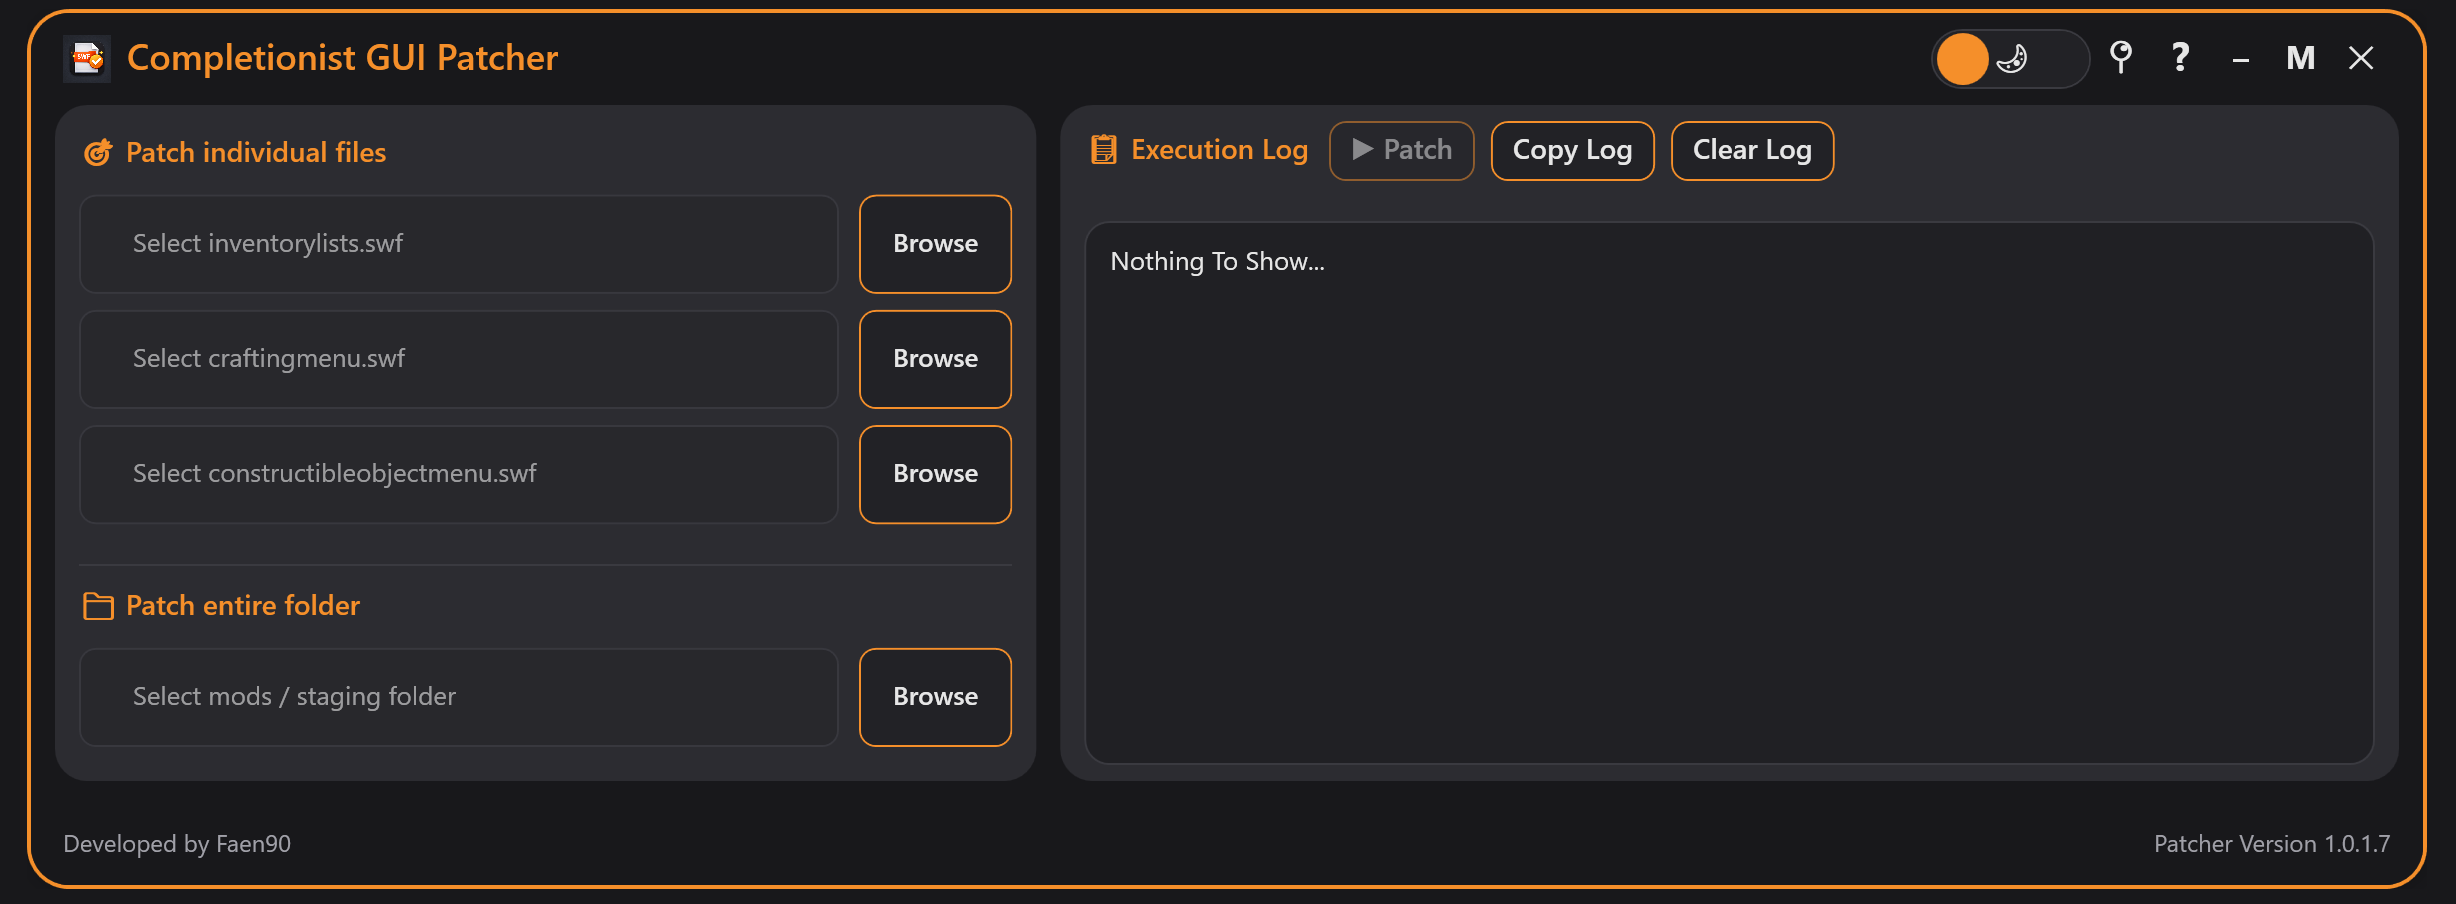
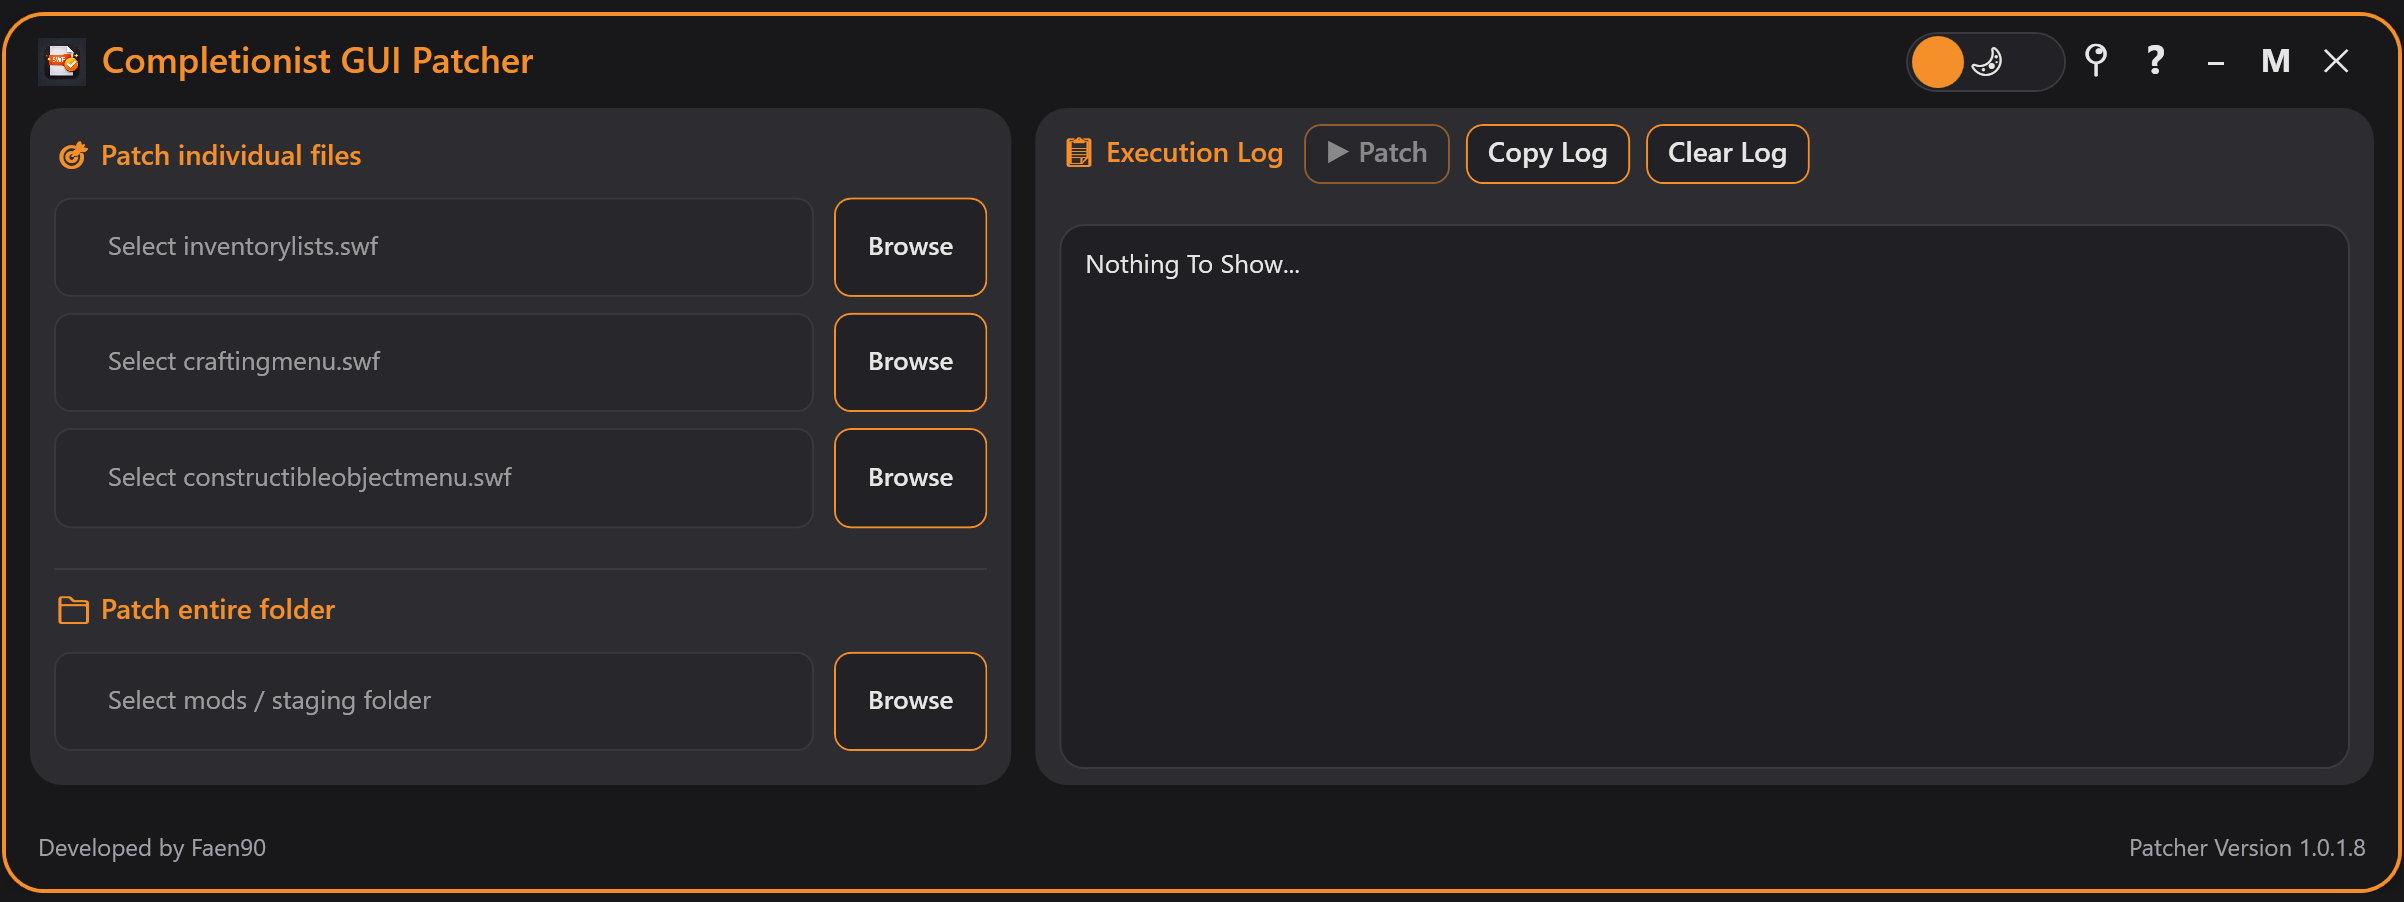
Add post-update cleanup and update workflow
Bump version to 1.0.1.8 and implement a safer update flow. Patcher.xaml.cs now invokes PerformPostUpdateCleanup on load and includes a method that removes obsolete files based on a preupdate_manifest.txt, skips the ffdec folder, and cleans temporary update artifacts. Utility/GithubUpdater.cs was reworked: ExtractAndUpdate is now async, extracts to an update_new folder, creates a pre-update manifest (CreatePreUpdateManifestAsync) excluding specified subfolders, generates an update.bat to apply the update, launches the updater via cmd, and shuts down the app. README and screenshot were updated to reflect the new version.

diff --git a/Utility/GithubUpdater.cs b/Utility/GithubUpdater.cs
@@ -119,23 +119,69 @@ namespace Completionist_GUI_Patcher.Utility
             }
         }
 
-        private static void ExtractAndUpdate(string zipPath)
+        private static async Task ExtractAndUpdate(string zipPath)
         {
-            string extractPath = Path.Combine(AppDomain.CurrentDomain.BaseDirectory, "update");
+            string baseDir = AppDomain.CurrentDomain.BaseDirectory;
+            string updateNewDir = Path.Combine(baseDir, "update_new");
+            string manifestPath = Path.Combine(baseDir, "preupdate_manifest.txt");
 
-            // Ensure no previous update is interfering
-            if (Directory.Exists(extractPath))
+            // Clean previous update attempt
+            if (Directory.Exists(updateNewDir))
+                Directory.Delete(updateNewDir, true);
+            if (File.Exists(manifestPath))
+                File.Delete(manifestPath);
+
+            // Extract new version to update_new
+            ZipFile.ExtractToDirectory(zipPath, updateNewDir);
+
+            // Create manifest of current files (pre-update)
+            await CreatePreUpdateManifestAsync(baseDir, "ffdec", "update_new");
+
+            // Create update.bat script (placed in base directory)
+            string batchScript = Path.Combine(baseDir, "update.bat");
+            string batchContent = $@"@echo off
+taskkill /IM Completionist-GUI-Patcher.exe /F
+xcopy /Y /E ""{updateNewDir}"" "".""
+start """" ""Completionist GUI Patcher.exe""
+exit";
+            await File.WriteAllTextAsync(batchScript, batchContent);
+
+            // Launch updater and shut down current instance
+            System.Diagnostics.Process.Start(new System.Diagnostics.ProcessStartInfo
             {
-                Directory.Delete(extractPath, true);
-            }
+                FileName = "cmd.exe",
+                Arguments = $"/C \"{batchScript}\"",
+                WorkingDirectory = baseDir,
+                WindowStyle = System.Diagnostics.ProcessWindowStyle.Hidden
+            });
 
-            ZipFile.ExtractToDirectory(zipPath, extractPath);
+            Application.Current.Shutdown();
+        }
 
-            // Run an update script (or directly move files)
-            RunUpdateScript(extractPath);
+        private static async Task CreatePreUpdateManifestAsync(string baseDir, params string[] excludeSubdirs)
+        {
+            string manifestPath = Path.Combine(baseDir, "preupdate_manifest.txt");
 
-            // Clean up
-            File.Delete(zipPath);
+            var excludedPaths = new HashSet<string>(excludeSubdirs.Select(d =>
+                Path.GetFullPath(Path.Combine(baseDir, d)).TrimEnd(Path.DirectorySeparatorChar)),
+                StringComparer.OrdinalIgnoreCase);
+
+            var allFiles = Directory.GetFiles(baseDir, "*", SearchOption.AllDirectories)
+                .Where(f =>
+                {
+                    string fullDir = Path.GetDirectoryName(f) ?? string.Empty;
+                    // Exclude if file lives inside any excluded subdirectory
+                    if (excludedPaths.Any(ex => fullDir.StartsWith(ex, StringComparison.OrdinalIgnoreCase)))
+                        return false;
+                    // Also exclude the manifest itself and temporary update files
+                    return !f.Equals(manifestPath, StringComparison.OrdinalIgnoreCase) &&
+                           !f.EndsWith("update.zip", StringComparison.OrdinalIgnoreCase) &&
+                           !f.EndsWith("update.bat", StringComparison.OrdinalIgnoreCase);
+                })
+                .Select(f => Path.GetRelativePath(baseDir, f))
+                .ToList();
+
+            await File.WriteAllLinesAsync(manifestPath, allFiles);
         }
 
         private static void RunUpdateScript(string extractedPath)

diff --git a/Patcher.xaml.cs b/Patcher.xaml.cs
@@ -54,6 +54,8 @@ namespace Completionist_GUI_Patcher
 
         private async void Patcher_Loaded(object sender, RoutedEventArgs e)
         {
+            PerformPostUpdateCleanup();
+
             Start.IsEnabled = false;
             SetTheme(false);
             _inputAllowed = false;
@@ -80,6 +82,79 @@ namespace Completionist_GUI_Patcher
             }
 
             _inputAllowed = await ValidateFFDec();
+        }
+
+        private void PerformPostUpdateCleanup()
+        {
+            string baseDir = AppDomain.CurrentDomain.BaseDirectory;
+            string updateNewDir = Path.Combine(baseDir, "update_new");
+            string manifestPath = Path.Combine(baseDir, "preupdate_manifest.txt");
+            string updateZip = Path.Combine(baseDir, "update.zip");
+            string updateBat = Path.Combine(baseDir, "update.bat");
+
+            if (!Directory.Exists(updateNewDir) || !File.Exists(manifestPath))
+                return;
+
+            UpdateLog("Performing post-update cleanup...");
+
+            var excludedDirs = new[] { "ffdec" };
+            var excludedFullPaths = excludedDirs
+                .Select(d => Path.GetFullPath(Path.Combine(baseDir, d)).TrimEnd(Path.DirectorySeparatorChar))
+                .ToHashSet(StringComparer.OrdinalIgnoreCase);
+
+            // Read old file list
+            var oldFiles = File.ReadAllLines(manifestPath).Select(p => p.Replace('/', '\\')).ToList();
+
+            // Get new file list from update_new (relative paths)
+            var newFiles = Directory.GetFiles(updateNewDir, "*", SearchOption.AllDirectories)
+                .Select(f => Path.GetRelativePath(updateNewDir, f).Replace('/', '\\'))
+                .ToHashSet(StringComparer.OrdinalIgnoreCase);
+
+            // Delete obsolete files, but skip any that belong to excluded folders
+            foreach (string relativePath in oldFiles)
+            {
+                string fullPath = Path.Combine(baseDir, relativePath);
+
+                // Skip if the file resides inside an excluded folder
+                bool isExcluded = excludedFullPaths.Any(ex => fullPath.StartsWith(ex, StringComparison.OrdinalIgnoreCase));
+                if (isExcluded)
+                    continue;
+
+                if (!newFiles.Contains(relativePath))
+                {
+                    try
+                    {
+                        if (File.Exists(fullPath))
+                        {
+                            File.Delete(fullPath);
+                            UpdateLog($"Deleted obsolete file: {relativePath}");
+                        }
+                    }
+                    catch (Exception ex)
+                    {
+                        UpdateLog($"Failed to delete {relativePath}: {ex.Message}");
+                    }
+                }
+            }
+
+            // Cleanup temporary files and folders
+            try
+            {
+                if (Directory.Exists(updateNewDir))
+                    Directory.Delete(updateNewDir, true);
+                if (File.Exists(manifestPath))
+                    File.Delete(manifestPath);
+                if (File.Exists(updateZip))
+                    File.Delete(updateZip);
+                if (File.Exists(updateBat))
+                    File.Delete(updateBat);
+            }
+            catch (Exception ex)
+            {
+                UpdateLog($"Cleanup error: {ex.Message}");
+            }
+
+            UpdateLog("Post-update cleanup completed.");
         }
 
         private void ThemeToggle_Click(object sender, RoutedEventArgs e)

diff --git a/AssemblyInfo.cs b/AssemblyInfo.cs
@@ -10,6 +10,6 @@ using System.Windows;
                                                 // app, or any theme specific resource dictionaries)
 )]
 
-[assembly: AssemblyVersion("1.0.1.7")]
-[assembly: AssemblyFileVersion("1.0.1.7")]
-[assembly: AssemblyInformationalVersion("1.0.1.7")]
+[assembly: AssemblyVersion("1.0.1.8")]
+[assembly: AssemblyFileVersion("1.0.1.8")]
+[assembly: AssemblyInformationalVersion("1.0.1.8")]

diff --git a/README.md b/README.md
@@ -1,6 +1,6 @@
 # 🎯 Completionist GUI Patcher
 
-![Version](https://img.shields.io/badge/version-1.0.1.7-blue.svg)
+![Version](https://img.shields.io/badge/version-1.0.1.8-blue.svg)
 ![License](https://img.shields.io/badge/license-MIT-green.svg)
 ![Platform](https://img.shields.io/badge/platform-Windows-blue)
 ![.NET](https://img.shields.io/badge/.NET-8.0-purple)
